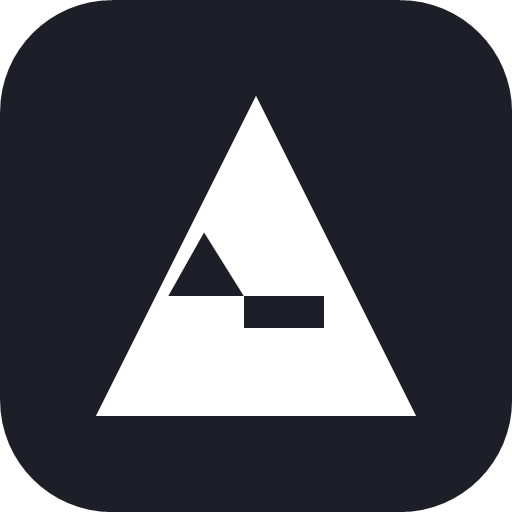
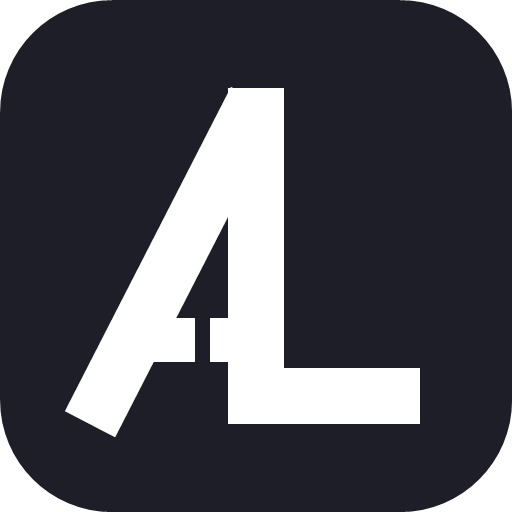
Rebuild AL monogram to spec — real letterform construction (v4.21)
Previous attempts either traced a reference image loosely or produced a
disconnected-looking mark (thin diagonal sliver + separate thick bar,
crossbar reading as a stray dot). Rebuilt from the actual design brief:

- Left diagonal of the A is a constant-width parallelogram whose top
  edge overlaps directly into the vertical bar near the apex — real
  letterform construction (bold sans-serif A glyphs are built the same
  way), so the two strokes visually fuse into one solid peak instead of
  meeting at a single knife-point.
- A's right leg IS the L's vertical stroke (one shared hexagon), base
  extends right into the L's foot — genuinely interconnected, not two
  overlapping letters.
- Crossbar is two segments with a deliberate gap in the middle: left
  segment overlaps into the diagonal across its full height band (it's
  sloped, so a straight vertical edge would clip in and out — the
  overlap margin guarantees full contact), right segment touches the
  vertical's flat edge exactly. Reads as "one crossbar with a gap," not
  an isolated dot (the earlier attempt's problem).

Verified legible at 76px (home-screen thumbnail) through 512px.
Coordinates centralized in tools/gen-icons.ps1, mirrored exactly in
icon.svg and the topbar mark in index.html — one source of truth, three
render targets.

Changed region(s): [[0.125, 0.1562, 0.8438, 0.8438]]

diff --git a/index.html b/index.html
@@ -59,14 +59,12 @@
         <rect width="512" height="512" rx="112" fill="url(#lm-grad)"/>
         <rect width="512" height="280" rx="112" fill="url(#lm-shine)"/>
         <rect x="7" y="7" width="498" height="498" rx="105" stroke="white" stroke-opacity="0.18" stroke-width="14" fill="none"/>
-        <!-- Bold A triangle with "flag" negative-space cut: small triangle
-             joined at its right base to a horizontal bar. Matches
-             icon.svg so topbar + PWA icon share one identity. -->
-        <path fill="white" fill-rule="evenodd" d="
-          M 96 416 L 256 96 L 416 416 Z
-          M 204 232 L 168 296 L 244 296 Z
-          M 244 296 L 324 296 L 324 328 L 244 328 Z
-        "/>
+        <!-- Interconnected A + L monogram — matches icon.svg exactly so the
+             topbar mark and the PWA home-screen icon share one identity. -->
+        <polygon fill="white" points="65,411 231,87 281,113 115,437"/>
+        <polygon fill="white" points="228,88 284,88 284,368 420,368 420,424 228,424"/>
+        <polygon fill="white" points="150,318 195,318 195,362 150,362"/>
+        <polygon fill="white" points="210,318 228,318 228,362 210,362"/>
       </svg>
       <div class="logo">AniLog</div>
     </div>
@@ -363,7 +361,7 @@
       </div>
 
       <div style="text-align:center; padding: 30px 20px 10px; font-size: 11px; color: var(--text-faint);">
-        AniLog · v4.20 · Powered by AniList
+        AniLog · v4.21 · Powered by AniList
       </div>
     </section>
 

diff --git a/sw.js b/sw.js
@@ -9,7 +9,7 @@
 //   - For everything else (AniList GraphQL, AniList images), bypass —
 //     we don't want stale data or 1+ GB of cover-image storage.
 
-const VERSION = 'anilog-v36';
+const VERSION = 'anilog-v37';
 const SHELL = [
   './',
   './index.html',
